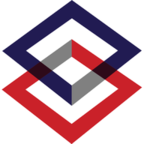
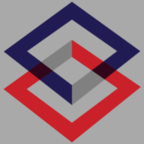
v0.2 ====

diff --git a/index.html b/index.html
@@ -4,91 +4,42 @@
     <meta charset="utf-8">
     <meta name="viewport" content="width=device-width, initial-scale=1, shrink-to-fit=no">
     <meta http-equiv="Author" content="&copy;2016 Philip Broadway" />
-    <meta name="description" content="Listabot">
+    <meta name="description" content="Listabot - App landing page">
+    <link rel="apple-touch-icon" sizes="57x57" href="/apple-icon-57x57.png?v1">
+    <link rel="apple-touch-icon" sizes="60x60" href="/apple-icon-60x60.png?v1">
+    <link rel="apple-touch-icon" sizes="72x72" href="/apple-icon-72x72.png?v1">
+    <link rel="apple-touch-icon" sizes="76x76" href="/apple-icon-76x76.png?v1">
+    <link rel="apple-touch-icon" sizes="114x114" href="/apple-icon-114x114.png?v1">
+    <link rel="apple-touch-icon" sizes="120x120" href="/apple-icon-120x120.png?v1">
+    <link rel="apple-touch-icon" sizes="144x144" href="/apple-icon-144x144.png?v1">
+    <link rel="apple-touch-icon" sizes="152x152" href="/apple-icon-152x152.png?v1">
+    <link rel="apple-touch-icon" sizes="180x180" href="/apple-icon-180x180.png?v1">
+    <link rel="icon" type="image/png" sizes="192x192"  href="/android-icon-192x192.png?v1">
+    <link rel="icon" type="image/png" sizes="32x32" href="/favicon-32x32.png?v1">
+    <link rel="icon" type="image/png" sizes="96x96" href="/favicon-96x96.png?v1">
+    <link rel="icon" type="image/png" sizes="16x16" href="/favicon-16x16.png?v1">
+    <link rel="manifest" href="/manifest.json?v1">
+    <meta name="msapplication-TileColor" content="#ffffff">
+    <meta name="msapplication-TileImage" content="/ms-icon-144x144.png?v1">
+    <meta name="theme-color" content="#ffffff">
     <meta http-equiv="x-ua-compatible" content="ie=edge">
-
     <title>Listabot</title>
 
-    <link rel="stylesheet" href="https://maxcdn.bootstrapcdn.com/bootstrap/4.0.0-alpha.3/css/bootstrap.min.css" integrity="sha384-MIwDKRSSImVFAZCVLtU0LMDdON6KVCrZHyVQQj6e8wIEJkW4tvwqXrbMIya1vriY" crossorigin="anonymous">
-    <style media="screen">
-
-      html {
-        position: relative;
-        min-height: 100%;
-      }
-
-      body {
-        font-size:30px;
-        background-color: #a9a9a9;
-        color:#1e1e1e;
-				;
-      }
-			
-			.ctr {
-				position:  absolute;
-		    top:       10%;
-		    left:      5%;
-		    bottom:    35%;
-		    right:     5%;    
-				
-			}
-			
-      .logo {
-				height:100%!important;
-				width:100%!important;
-				overflow: visible!important;
-				display:block;
-      }
-			
-			.brand {
-				font-size:200%!important;
-				-webkit-text-size-adjust: 250%!important;
-				padding:5%;
-				text-align:center;
-        color:#fff;
-			}
-			
-      .container-table {
-        display: table;
-      }
-
-      .vertical-center-row {
-        display: table-cell;
-        vertical-align: middle;
-      }
-
-      .footer {
-				position:absolute;
-        width: 100%;
-        background-color:#1a1a1a;
-        color:#eee;
-				bottom:0px!important;
-      }
-    </style>
   </head>
-  <body>
-	  <div id="container-fluid">
-		  <div class="ctr">
-			  <svg class="logo" viewBox="0 0 840 840">
-		      <path style="fill:#211B52;" d="M407.203,25.629L28.973,302.251l377.406,297.295L786.842,299.97L407.203,25.629z M411.003,595.437 l-2.833-104.333L157.707,300.438L407.26,124.254L658.27,299.876L516.545,407.529"/>
-		      <polyline style="fill:#ca2129;" points="26.386,511.873 405.88,807.885 788.2,499.957 406.401,238.139 406.386,333.061 660.628,507.873 406.08,698.85 154.446,511.873 299.745,409.201 235.433,360.701 "/>
-		      <polygon style="fill:#808080;" points="235.401,360.686 299.745,409.201 406.401,333.061 406.398,238.131 "/>
-		      <polygon style="fill:#808080;" points="587.671,457.545 515.667,407.943 406.245,489.654 406.386,599.557 "/>
-		      <polygon style="fill:#2e0a19;" points="581.448,358.186 515.495,408.076 587.589,457.623 652.058,406.592 "/>
-		      <polygon style="fill:#2e0a19;" points="166.198,410.764 228.511,459.545 300.1,409.006 235.604,360.545 "/>
-			  </svg>
-				<div id="container-table">
-					<p class="brand">Listabot</p>
-				</div>
-		  </div>
-	    <footer class="footer">
-					
-	      </div>
-	    </footer>
-	  </div>
-    <script src="https://ajax.googleapis.com/ajax/libs/jquery/3.0.0/jquery.min.js" integrity="sha384-THPy051/pYDQGanwU6poAc/hOdQxjnOEXzbT+OuUAFqNqFjL+4IGLBgCJC3ZOShY" crossorigin="anonymous"></script>
-    <script src="https://cdnjs.cloudflare.com/ajax/libs/tether/1.2.0/js/tether.min.js" integrity="sha384-Plbmg8JY28KFelvJVai01l8WyZzrYWG825m+cZ0eDDS1f7d/js6ikvy1+X+guPIB" crossorigin="anonymous"></script>
-    <script src="https://maxcdn.bootstrapcdn.com/bootstrap/4.0.0-alpha.3/js/bootstrap.min.js" integrity="sha384-ux8v3A6CPtOTqOzMKiuo3d/DomGaaClxFYdCu2HPMBEkf6x2xiDyJ7gkXU0MWwaD" crossorigin="anonymous"></script>
+  <body id="listabot.com" itemscope itemtype="http://schema.org/MobileApplication" style="background-color:#a9a9a9;font-size: 16px!;">
+    <svg viewBox="0 0 840 840" style="position:fixed; width:100%; height:100%; display:block; margin:0;background-color:#a9a9a9;">
+      <path style="fill:#211B52;" d="M407.203,25.629L28.973,302.251l377.406,297.295L786.842,299.97L407.203,25.629z M411.003,595.437 l-2.833-104.333L157.707,300.438L407.26,124.254L658.27,299.876L516.545,407.529"/>
+      <polyline style="fill:#ca2129;" points="26.386,511.873 405.88,807.885 788.2,499.957 406.401,238.139 406.386,333.061 660.628,507.873 406.08,698.85 154.446,511.873 299.745,409.201 235.433,360.701 "/>
+      <polygon style="fill:#808080;" points="235.401,360.686 299.745,409.201 406.401,333.061 406.398,238.131 "/>
+      <polygon style="fill:#808080;" points="587.671,457.545 515.667,407.943 406.245,489.654 406.386,599.557 "/>
+      <polygon style="fill:#2e0a19;" points="581.448,358.186 515.495,408.076 587.589,457.623 652.058,406.592 "/>
+      <polygon style="fill:#2e0a19;" points="166.198,410.764 228.511,459.545 300.1,409.006 235.604,360.545 "/>
+	  </svg>
+    <span itemprop="creator" style="font-color:#a9a9a9;">
+      <span id="philipbroadway" itemscope itemtype="http://schema.org/Person" style="font-color:#a9a9a9;">http://philipbroadway.com</span>
+    </span>
+    <span itemprop="operatingSystem" style="font-color:#a9a9a9;">ios</span>
+    <span itemprop="applicationCategory" style="font-color:#a9a9a9;">https://en.wikipedia.org/wiki/Productivity</span>
     <script>
       (function(i,s,o,g,r,a,m){i['GoogleAnalyticsObject']=r;i[r]=i[r]||function(){
         (i[r].q=i[r].q||[]).push(arguments)},i[r].l=1*new Date();a=s.createElement(o),
